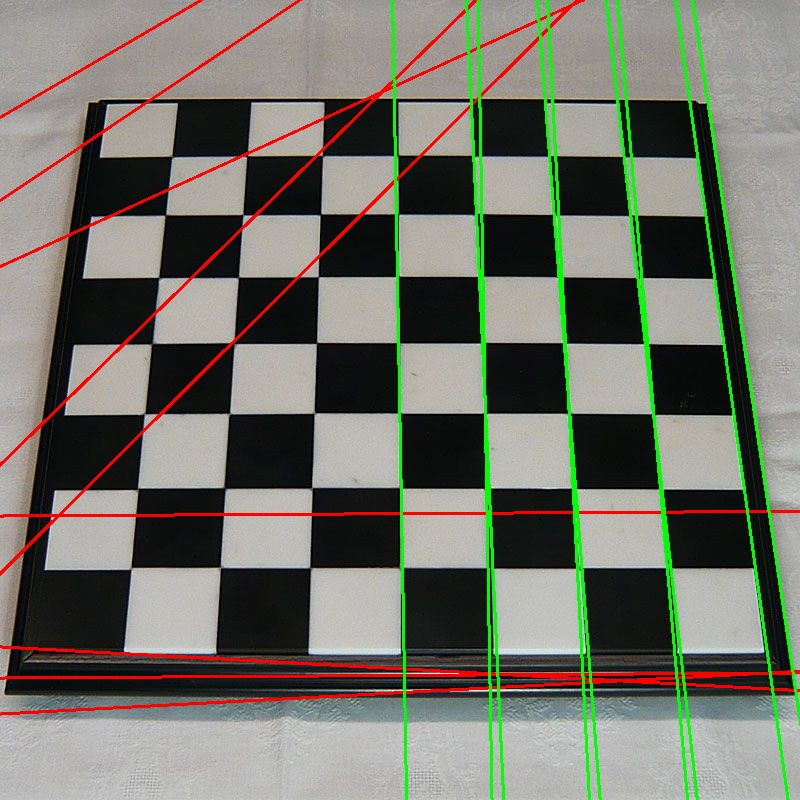
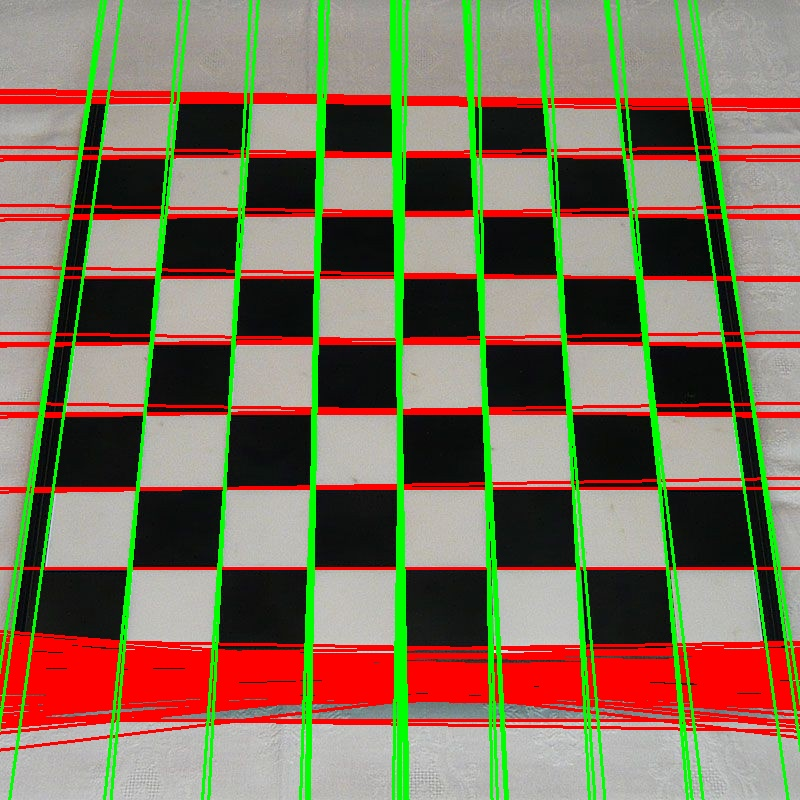
fix hor and vert cluster(use cos and sin of double angle)

Changed region(s): [[0.0, 0.0, 1.0, 1.0]]

diff --git a/martin/ChessLinesClustering.py b/martin/ChessLinesClustering.py
@@ -25,7 +25,12 @@ class ChessLines():
         
         self.lines = np.reshape(lines, (-1, 2))
         
-        angleClustering = skcluster.KMeans(n_clusters=2).fit(self.lines[:,1].reshape(-1,1))
+        tocluster = np.column_stack((
+            np.sin(self.lines[:,1]*2), 
+            np.cos(self.lines[:,1]*2)
+            ))
+        
+        angleClustering = skcluster.KMeans(n_clusters=2).fit(tocluster)
         self._angleClustering = angleClustering
         self._h = self.lines[angleClustering.labels_==0]
         self._v = self.lines[angleClustering.labels_==1]
@@ -107,14 +112,32 @@ class ChessLines():
 
 
     def _manualClustering(self, image=None):
+        """
+        problema: con la differenza dei c (intersetta con x=0), ho differenze molto buone con
+        linee orizzontali vere, ma non con linee verticali o quasi (si incontreranno in una C 
+        vicina tutte e l'angolo diventa troppo importante per l'intersezione).
+        
+        Sol:
+        1) controllo che m<1 o m>1 (sotto o sopra la bisettrice) per stabilire linee circa orizz
+        o verticali. a questo punto so se usare intersezione con x=0 (c) oppure con y=0
+        nota: forse meglio intersecare con x=W/2 e y=H/2
+        
+        2) oppure interseco con retta ortogonale(coef anf = -1/m) alla linea mediana (numpy su linee)
+        che passa per il centro (x=W/2 e y=H/2). Sicuramente il piu' affidabile, ma rognoso forse
+        """
+        
         self._sortLinesByRho()
+        
+        #debug show
         output_lines(image, self._h, (0,255,0))
         cv2.imshow("clustered lines", image)
         cv2.waitKey(0)
     
+        # vars of the previous line for the loop so that can be compared to the current one
         m_old = None
         c_old = None
-        
+        prev_line = None
+    
         for rho, theta in self._h:
             # P0 punto proiezione da origine a retta
             x0 = np.cos(theta)*rho
@@ -123,48 +146,35 @@ class ChessLines():
             # P1 punto casuale calcolato a partire da P0
             x1 = int(x0 + 1000 * (-np.sin(theta)))
             y1 = int(y0 + 1000 * (np.cos(theta)))
+            
             # P2 punto casuale calcolato a partire da P0
             x2 = int(x0 - 1000 * (-np.sin(theta)))
             y2 = int(y0 - 1000 * (np.cos(theta)))
-            
-            # x = [x0, x1]
-            # y = [y0, y1]
-
-            # # Calculate the coefficients. This line answers the initial question. 
-            # coefficients = np.polyfit(x, y, 1)
             
             """ y = mx + c """
             m = float(y2 - y1) / (x2 - x1)
             c = (y2 - (m * x2))
             coefficients = [m, c]
             
-            
-            print(f"line: {(rho, theta)}")
+            #debug stuff
+            print(f"\nline: {(rho, theta)}")
             print(f"points: {(x0, y0)} ; {x1,y1}")
             print(f"coefficients: {coefficients}")
             if c_old is not None:
-                print(f"distance with previous point in x=0: {np.absolute(c_old - c)}\n")
-            """
-            problema: con la differenza dei c (intersetta con x=0), ho differenze molto buone con
-            linee orizzontali vere, ma non con linee verticali o quasi (si incontreranno in una C 
-            vicina tutte e l'angolo diventa troppo importante per l'intersezione).
+                print(f"distance with previous point in x=0: {np.absolute(c_old - c)}")
+            if prev_line is not None:
+                print(f"distance with previous line: {_line_distance(rho, theta, prev_line[0], prev_line[1])}")
             
-            Sol:
-            1) controllo che m<1 o m>1 (sotto o sopra la bisettrice) per stabilire linee circa orizz
-            o verticali. a questo punto so se usare intersezione con x=0 (c) oppure con y=0
-            nota: forse meglio intersecare con x=W/2 e y=H/2
-            
-            2) oppure interseco con retta ortogonale(coef anf = -1/m) alla linea mediana (numpy su linee)
-            che passa per il centro (x=W/2 e y=H/2). Sicuramente il piu' affidabile, ma rognoso forse
-            """
-            
-            if(image):
+            # debug show what line is being analysed
+            if(image is not None):
                 cv2.line(image,(x1,y1),(x2,y2),(255,0,0),2)
                 cv2.imshow(f"{(rho, theta)}", image)
                 cv2.waitKey(0)
             
+            # remember as next previous line
             m_old = m
             c_old = c
+            prev_line = [rho, theta]
             
             
         return self._h, self._v
@@ -176,3 +186,17 @@ class ChessLines():
         clusteringH = skcluster.AgglomerativeClustering(
             distance_threshold=(self.lines[:,1].mean(axis=1))) \
                 .fit(self._h[:,0].reshape(-1,1))
+
+
+def _line_distance(rho1, theta1, rho2, theta2):
+    # Convert polar equations to Cartesian equations
+    x1, y1 = rho1 * np.cos(theta1), rho1 * np.sin(theta1)
+    x2, y2 = rho2 * np.cos(theta2), rho2 * np.sin(theta2)
+
+    # Calculate coefficients of line 1
+    A1, B1, C1 = y1 - y2, x2 - x1, x1 * y2 - x2 * y1
+
+    # Calculate distance between line 1 and line 2
+    d = np.absolute((A1 * x2 + B1 * y2 + C1) / np.sqrt(A1**2 + B1**2))
+
+    return d

diff --git a/martin/chessboard_detection.py b/martin/chessboard_detection.py
@@ -66,7 +66,7 @@ def find_board(fname, output_name, verbose_show=False, verbose_output=False):
     # vLinesCLustered = chessLines.getVLinesClustered
     
     # clustering linee manuale
-    chessLines.cluster('manual', img=img)
+    chessLines.cluster('KmeansLines', img=img)
     hLinesCLustered = chessLines.getHLinesClustered()
     vLinesCLustered = chessLines.getVLinesClustered()
     
